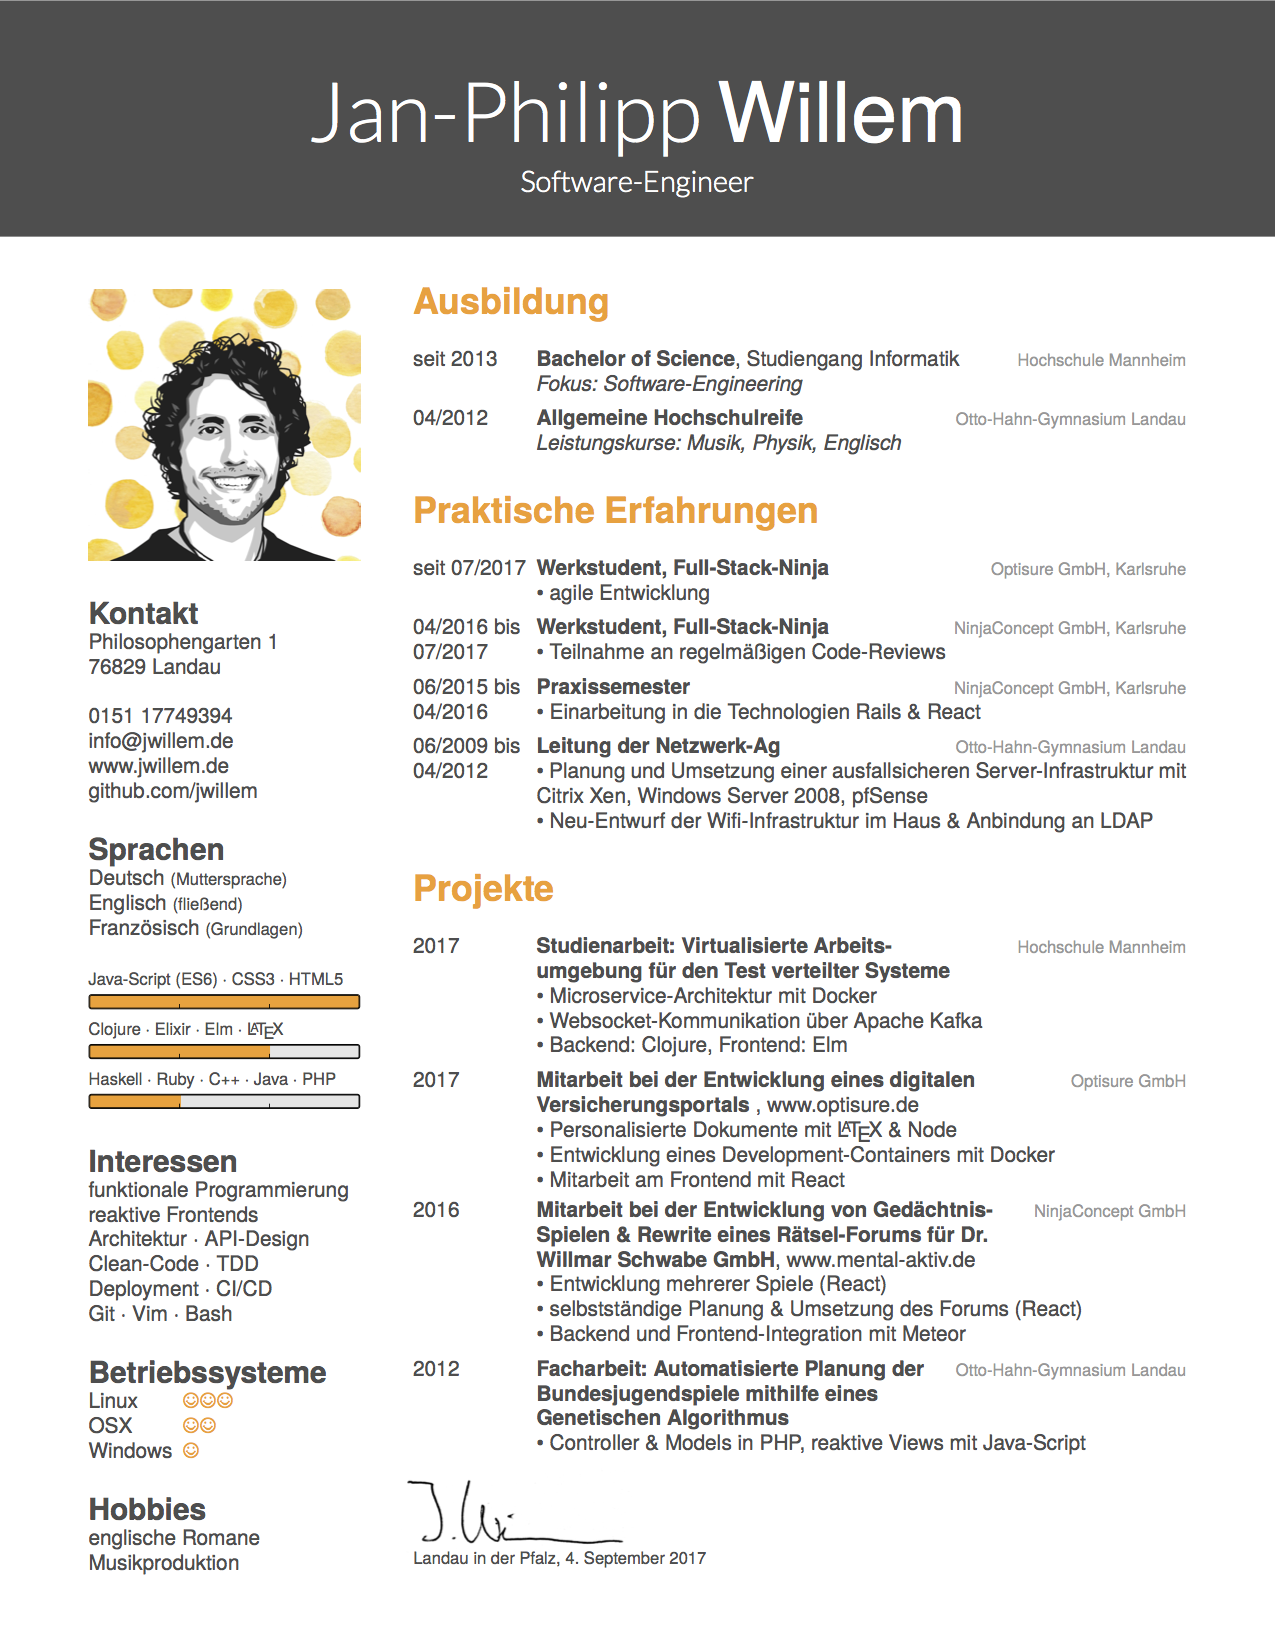
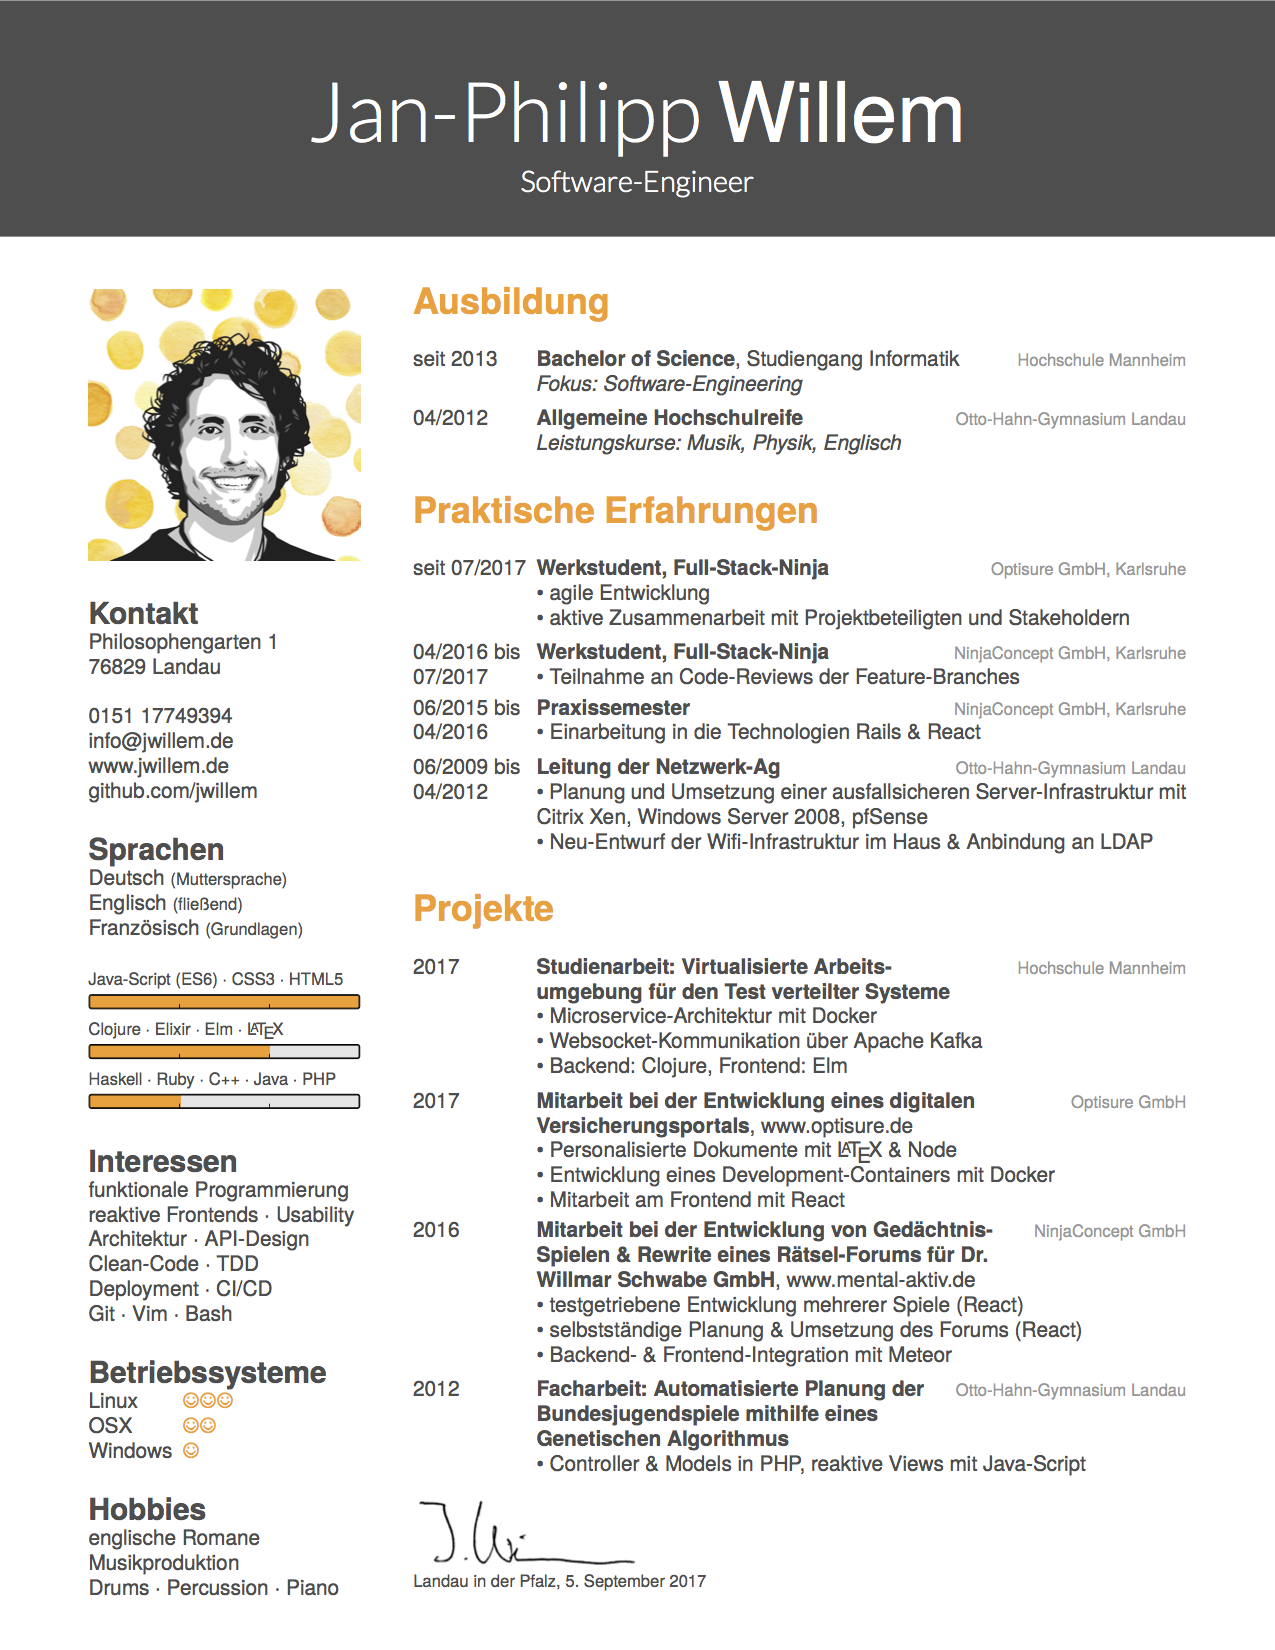
minor tweaks

diff --git a/tex/cv.tex b/tex/cv.tex
@@ -15,7 +15,7 @@
 \usepackage{marvosym}
 \usepackage{datetime}
 
-\newdateformat{monthyeardate}{%
+\newdateformat{daymonthyeardate}{%
   \THEDAY. \monthname[\THEMONTH] \THEYEAR}
 
 \begin{document}
@@ -47,7 +47,7 @@
     \progressbar{0.339}
   \section{Interessen}
   funktionale Programmierung
-  reaktive Frontends
+  reaktive Frontends · Usability
   Architektur · API-Design
   Clean-Code · TDD
   Deployment · CI/CD
@@ -59,6 +59,7 @@
   \section{Hobbies}
     englische Romane
     Musikproduktion
+    Drums · Percussion · Piano
 \end{aside}
 
 \section{Ausbildung}
@@ -84,14 +85,15 @@
     {Werkstudent, Full-Stack-Ninja}
     {Optisure GmbH, Karlsruhe}
     {%
-      • agile Entwicklung
+      • agile Entwicklung\\
+      • aktive Zusammenarbeit mit Projektbeteiligten und Stakeholdern
     }
   \entry
     {\multirow{2}{2cm}{04/2016 bis\\ 07/2017}}
     {Werkstudent, Full-Stack-Ninja}
     {NinjaConcept GmbH, Karlsruhe}
     {%
-      • Teilnahme an regelmäßigen Code-Reviews
+      • Teilnahme an Code-Reviews der Feature-Branches
     }
   \entry
     {\multirow{2}{2cm}{06/2015 bis\\ 04/2016}}
@@ -124,7 +126,7 @@
     }
   \entry
     {2017}
-    {\multirow{2}{8cm}{Mitarbeit bei der Entwicklung eines digitalen\\ Versicherungsportals {\normalfont ,~www.optisure.de}}}
+    {\multirow{2}{8cm}{Mitarbeit bei der Entwicklung eines digitalen\\ Versicherungsportals{\normalfont ,~www.optisure.de}}}
     {Optisure GmbH}
     {\\%
       • Personalisierte Dokumente mit \LaTeX{} \& Node\\
@@ -136,9 +138,9 @@
     {\multirow{2}{8cm}{Mitarbeit bei der Entwicklung von Gedächtnis-\\Spielen \& Rewrite eines Rätsel-Forums für Dr. Willmar Schwabe GmbH{\normalfont ,~www.mental-aktiv.de}}}
     {NinjaConcept GmbH}
     {\\\\%
-      • Entwicklung mehrerer Spiele (React)\\
+      • testgetriebene Entwicklung mehrerer Spiele (React)\\
       • selbstständige Planung \& Umsetzung des Forums (React)\\
-      • Backend und Frontend-Integration mit Meteor
+      • Backend- \& Frontend-Integration mit Meteor
     }
   % \entry
   %   {2016}
@@ -158,13 +160,13 @@
       • Controller \& Models in PHP, reaktive Views mit Java-Script
     }
 \end{entrylist}
-\vspace*{-.66cm}
-\hspace*{-.3cm}
-\includegraphics[width=.3\textwidth]{signature.pdf}\\\\
+\vspace*{-.2cm}
+% \hspace*{-.3cm}
+\includegraphics[width=.3\textwidth]{signature.pdf}\\
 {\footnotesize
-  % \addfontfeature{Color=lightgray} 
-  Landau in der Pfalz, \monthyeardate\today
+  Landau in der Pfalz, \daymonthyeardate\today
 }
+
 % \section{publications}
 %
 % Put your publications here!
